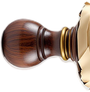
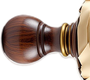
Walze und Blatt bündig: Papier endet exakt am Wickel, graue Kante am 3D-Bild entfernt
Claude-Session: https://claude.ai/code/session_01MtG5efU4rv3iGf9L7234js

diff --git a/styles.css b/styles.css
@@ -21,7 +21,7 @@
   --font: 'Klee One', 'Hiragino Maru Gothic ProN', 'Yu Gothic', 'Segoe Print', 'Bradley Hand', cursive;
   --L: 36px;
   --fs: 22px;
-  --roll: 46px;
+  --roll: 40px;
   --padtop: calc(var(--roll) + var(--L));
   --pad-out: 3.2rem;
   --pad-in: 2.4rem;
@@ -95,7 +95,7 @@ button { font: inherit; color: inherit; }
 
 /* Walze oben: gerendertes 3D-Bild (Stab, Knäufe, aufgewickeltes Papier); die Farbe der Rolle sitzt als Bänder darauf */
 .roller {
-  position: absolute; left: -36px; right: -36px; top: -12px; height: var(--roll); z-index: 6; pointer-events: none; display: flex;
+  position: absolute; left: -43px; right: -43px; top: -10px; height: var(--roll); z-index: 6; pointer-events: none; display: flex;
   filter: drop-shadow(0 9px 8px rgba(0, 0, 0, 0.6));
 }
 .roller__l, .roller__r { flex: none; width: 45px; height: 100%; position: relative; z-index: 1; background-size: 100% 100%; background-repeat: no-repeat; }
@@ -107,8 +107,8 @@ button { font: inherit; color: inherit; }
   background: linear-gradient(180deg, rgba(255, 255, 255, 0.42) 0, rgba(255, 255, 255, 0) 30%, rgba(0, 0, 0, 0) 55%, rgba(0, 0, 0, 0.38) 100%), var(--c);
   box-shadow: 0 0 3px rgba(0, 0, 0, 0.45), inset 1px 0 0 rgba(255, 255, 255, 0.2), inset -1px 0 0 rgba(0, 0, 0, 0.25);
 }
-.band--l { left: 60px; }
-.band--r { right: 60px; }
+.band--l { left: 67px; }
+.band--r { right: 67px; }
 .scrollwrap.is-bare .roller { opacity: 0; transition: none; }
 .scrollwrap .roller { transition: opacity 0.35s; }
 .rollshade {
@@ -333,15 +333,15 @@ button { font: inherit; color: inherit; }
   .si__act { left: auto; right: 0.1rem; top: 0.3rem; margin-top: 0; width: 1.3rem; height: auto; gap: 0.25rem; }
   .si.is-current .si__act { opacity: 1; }
   .si.is-current .si__pal, .si.is-current .si__x { pointer-events: auto; }
-  .main { order: 1; flex: 1 1 auto; min-height: 0; margin: 0 1.9rem; }
+  .main { order: 1; flex: 1 1 auto; min-height: 0; margin: 0 2.1rem; }
   .binrow { order: 2; margin: 0; padding: 0; height: 4rem; }
   .bin { padding: 0.1rem 0.5rem; }
   .bin img { width: 2.9rem; }
-  .roller { left: -27px; right: -27px; height: 34px; top: -9px; }
+  .roller { left: -31px; right: -31px; height: 30px; top: -7px; }
   .roller__l, .roller__r { width: 33px; }
   .band { width: 10px; }
-  .band--l { left: 44px; }
-  .band--r { right: 44px; }
+  .band--l { left: 49px; }
+  .band--r { right: 49px; }
 }
 @media (max-width: 47.5rem) {
   :root { --pad-out: 1.5rem; --pad-in: 1.2rem; }
